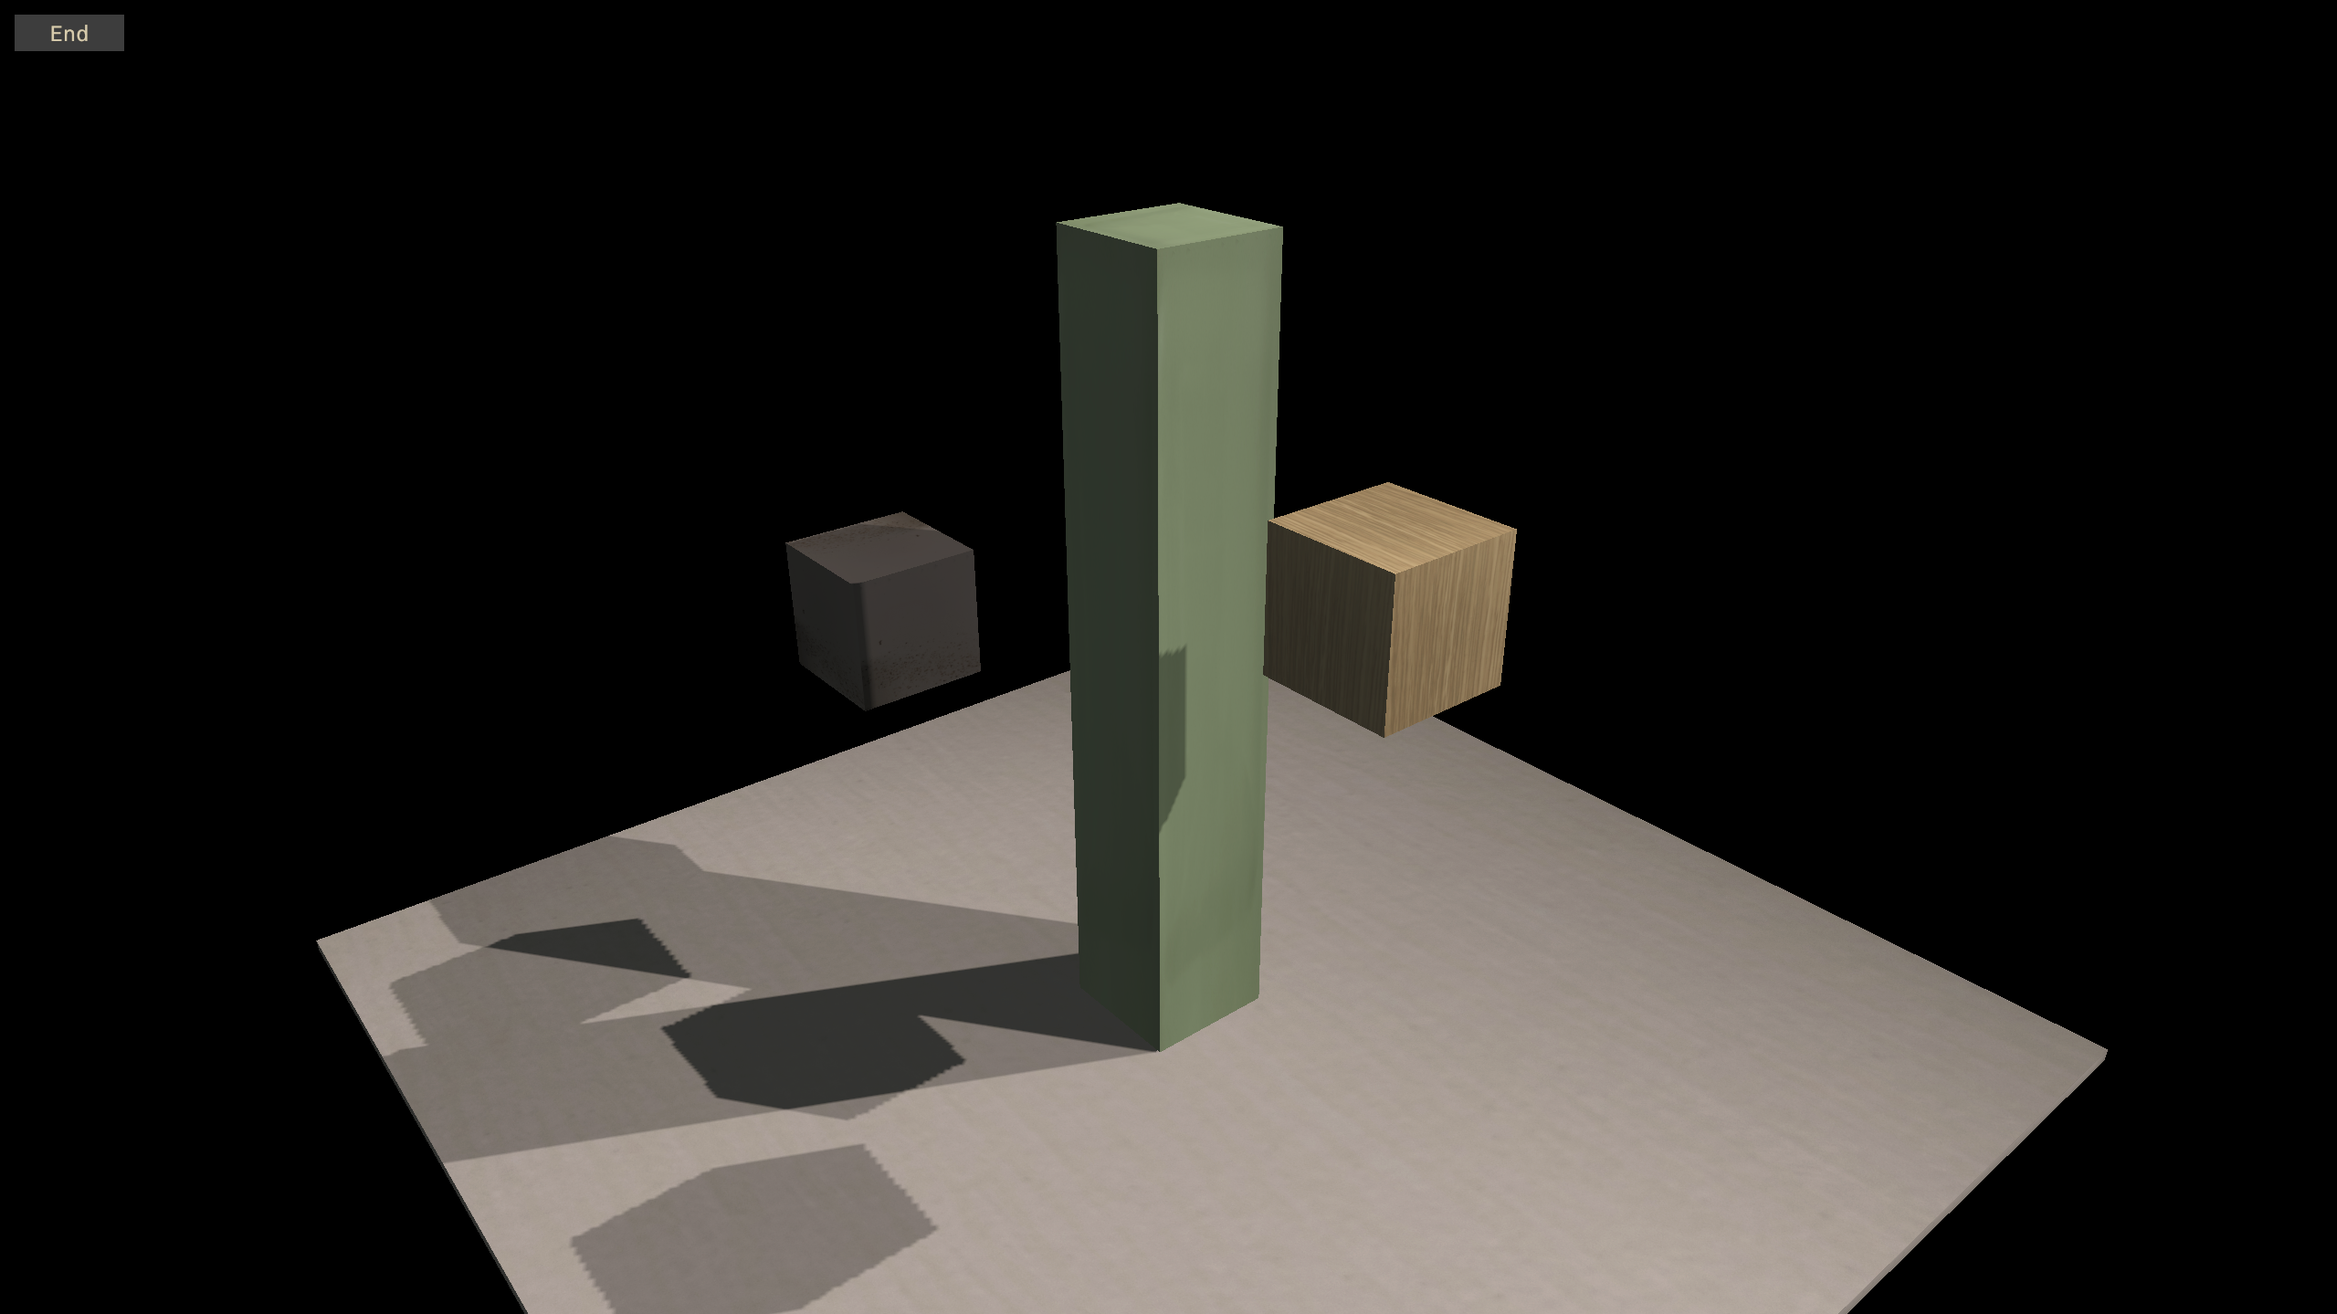
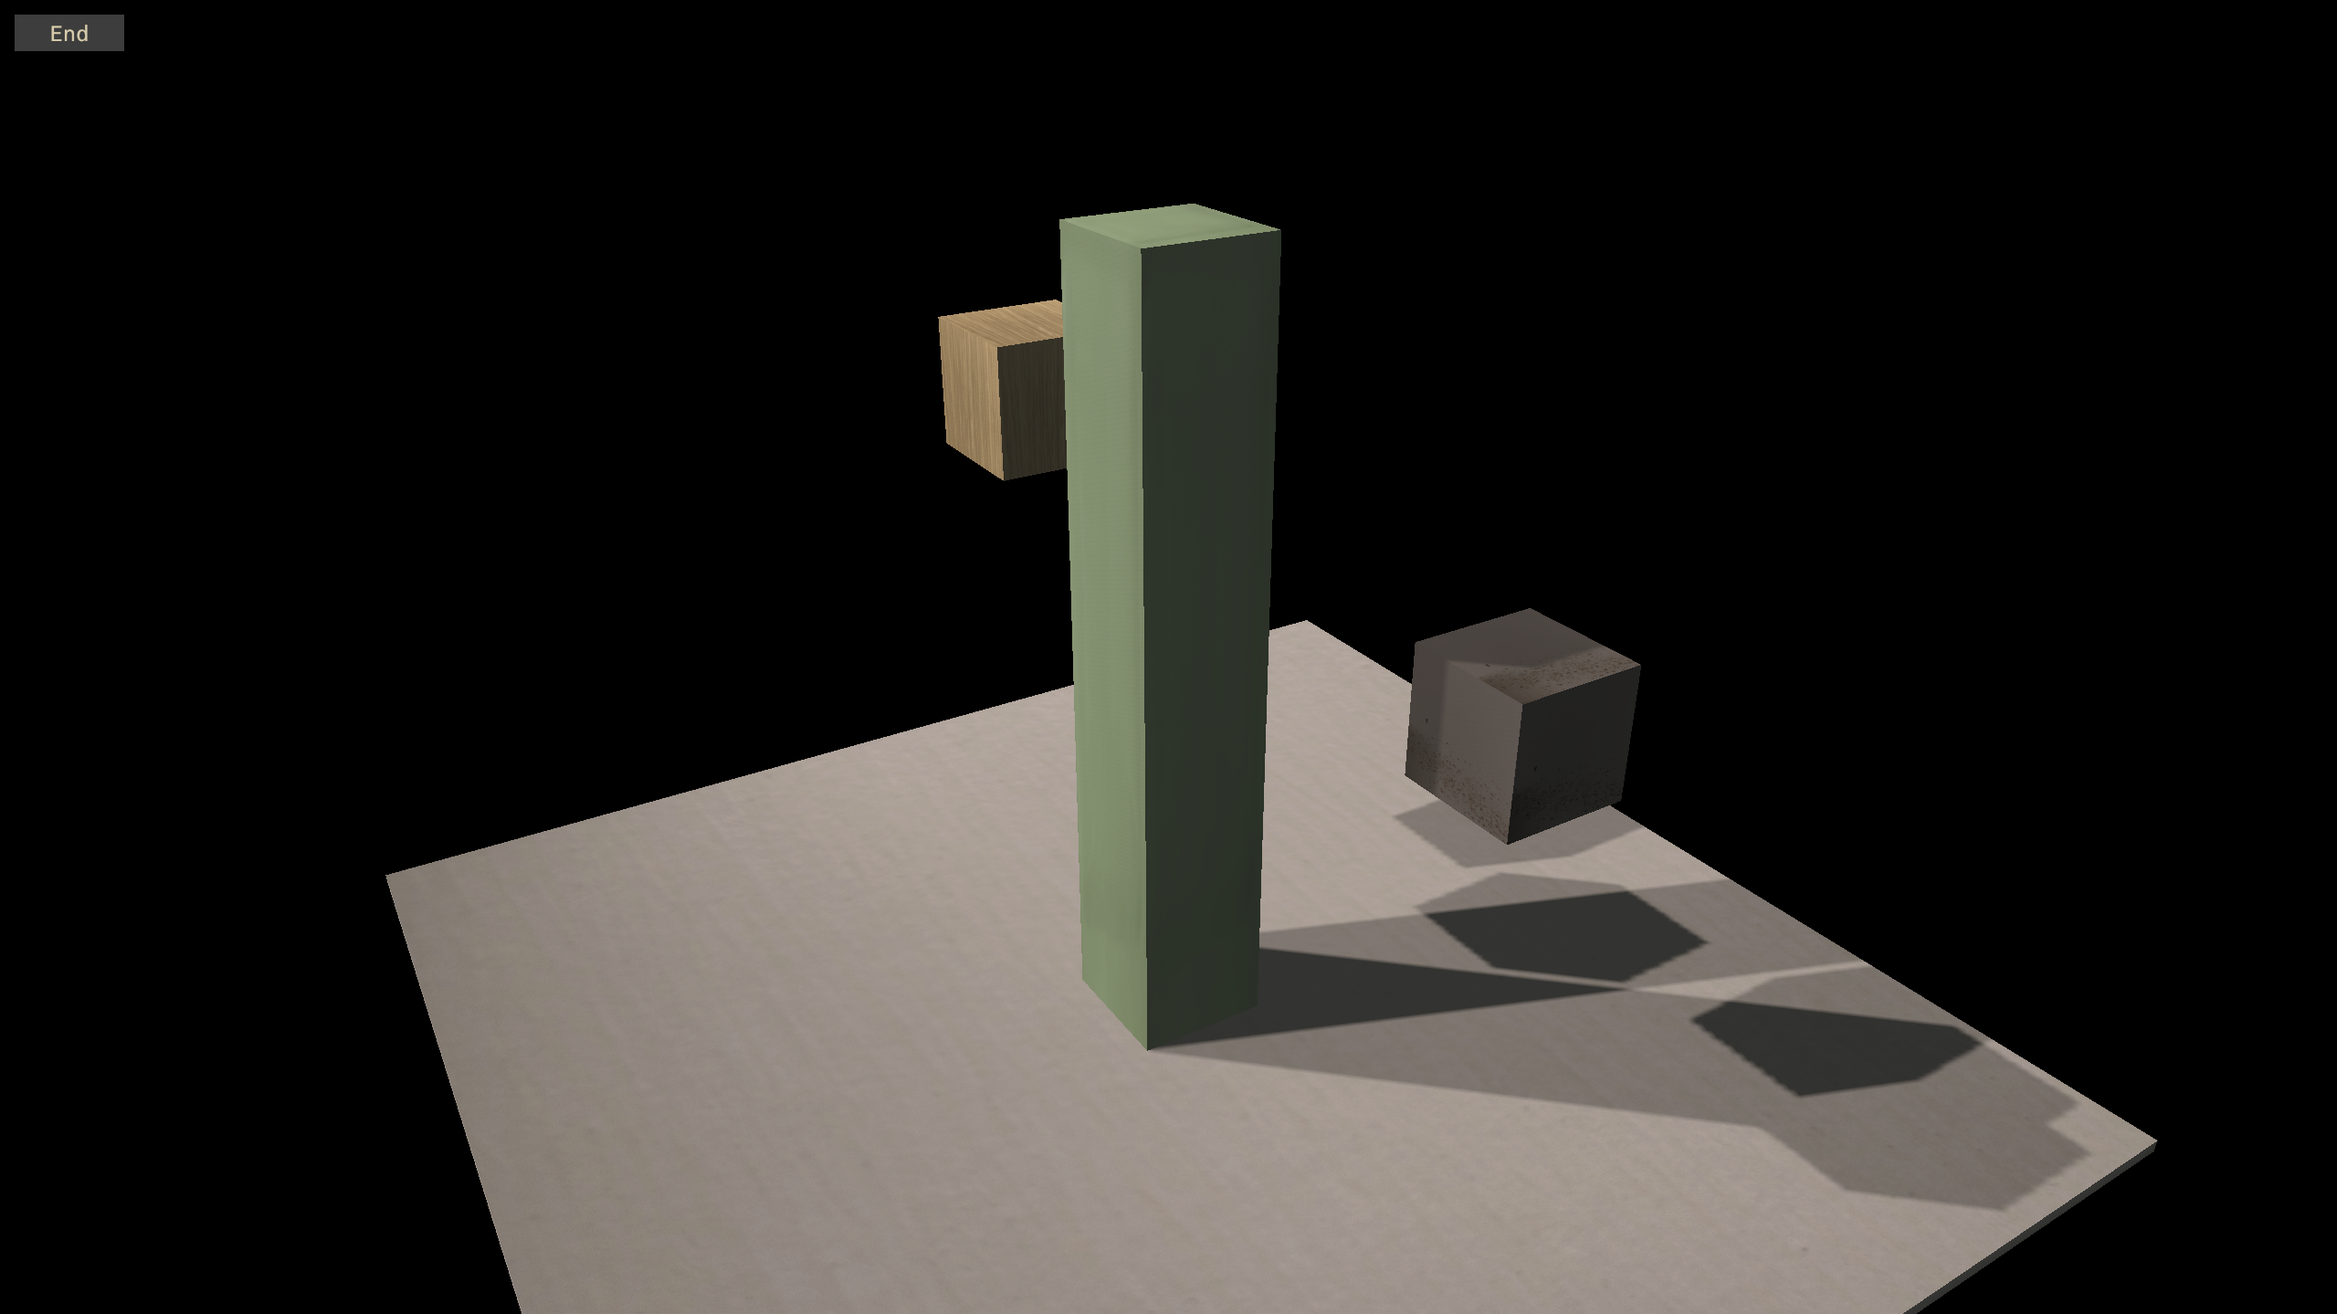
[working] 3x3 PCF 도입 및 그림자 여드름 해소
[1] 3x3 PCF
-MIN_MAX_LINEAR_MIP_POINT 비교 샘플러가 수행하는 2x2 PCF로는 현재 조형과 카메라 구성에서 그림자의 계단 현상을 막지 못하여 3x3 PCF를 구현함.
- 기존 비교 샘플러를 주변 4개 텍스처 좌표에서 샘플링하도록 하여 중앙이 가중된 PCF로 간단히 구현하였음.
- 계단 현상은 확실히 이전에 비해 완화되었으나, 여전히 나타남.

[2] 그림자 여드름
- 중앙의 초록 기둥에 여러 검은 세로줄이 나타난 것을 해결하였음.
- 이미 지난 커밋에서 깊이 보정값을 설정하였기에 그림자 여드름이라곤 처음에 생각을 못했고, 일단 모이레 패턴인줄 알고 텍스처의 해상도를 낮추거나 다른 텍스처로 교체해봤으나 해결하지 못하였음.
- 그러나 RasterizerState의 DepthBias를 10배로 해보니 해결된 것으로 보아 그림자 여드름이었음.
- 다만 기존 값의 10배는 그림자에서 피터팬이 조금 나타나는 것 같아서 기존 값의 3배로 조정하였음.

Changed region(s): [[0.1235, 0.1529, 0.9261, 1.0], [0.3396, 0.9173, 0.4939, 1.0]]

diff --git a/Code/C++/Source/PodoReset.cpp b/Code/C++/Source/PodoReset.cpp
@@ -644,7 +644,7 @@ void Podo::ResetMeshes()
 {
 	m_workloadMeshes.clear();
 
-	std::vector<Vertex> boxVertices =
+	std::vector<Vertex> cubeVertices =
 	{
 		// -Z
 		{{-0.5f, -0.5f, -0.5f}, { 0.0f,  0.0f, -1.0f}, {0.0f, 1.0f}},
@@ -683,7 +683,7 @@ void Podo::ResetMeshes()
 		{{+0.5f, -0.5f, +0.5f}, { 0.0f, -1.0f,  0.0f}, {1.0f, 1.0f}}
 	};
 
-	std::vector<uint32_t> boxIndices =
+	std::vector<uint32_t> cubeIndices =
 	{
 		0,	1,	2,		0,	2,	3,	// -Z
 		4,	6,	5,		4,	7,  6,	// +Z
@@ -699,11 +699,11 @@ void Podo::ResetMeshes()
 	resourceUpload.Begin();
 	{
 		{
-			Mesh boxMesh;
-			boxMesh.Create(m_device.Get(), resourceUpload, std::move(boxVertices), std::move(boxIndices));
+			Mesh cubeMesh;
+			cubeMesh.Create(m_device.Get(), resourceUpload, std::move(cubeVertices), std::move(cubeIndices));
 
 			//NOTE: 실제 자원의 업로드 및 복사는 일어나지 않았지만, boxMesh의 초기화는 곧바로 일어나므로 바로 이렇게 move해도 됨
-			m_workloadMeshes["Cube"] = std::move(boxMesh);
+			m_workloadMeshes["Cube"] = std::move(cubeMesh);
 		}
 	}
 	auto uploadFinished = resourceUpload.End(m_commandQueue.Get());
@@ -1430,7 +1430,7 @@ void Podo::ResetPipelineStateObjects()
 	pipelineStateObjectDesc.VS										= CD3DX12_SHADER_BYTECODE(shadowVertexShader.Get());
 	pipelineStateObjectDesc.PS										= CD3DX12_SHADER_BYTECODE(shadowPixelShader.Get());
 	pipelineStateObjectDesc.RasterizerState							= CD3DX12_RASTERIZER_DESC(D3D12_DEFAULT);
-	pipelineStateObjectDesc.RasterizerState.DepthBias				= 1000;
+	pipelineStateObjectDesc.RasterizerState.DepthBias				= 3000;
 	pipelineStateObjectDesc.RasterizerState.SlopeScaledDepthBias	= 1.0f;
 	pipelineStateObjectDesc.RasterizerState.DepthBiasClamp			= 0.0f;
 	pipelineStateObjectDesc.BlendState								= CD3DX12_BLEND_DESC(D3D12_DEFAULT);

diff --git a/README.md b/README.md
@@ -30,6 +30,11 @@ Win32와 D3D12를 이용하여 구현 중인 렌더링 엔진입니다.
 [준비]
 ![로딩 스크린샷](Docs/screenshot_1.png)
 
+<br>
+
+
+
+
 [실행]
 ![실행 스크린샷](Docs/screenshot_2.png)
 
@@ -183,32 +188,32 @@ Win32와 D3D12를 이용하여 구현 중인 렌더링 엔진입니다.
 
 
 
-### 4.3. 측정 결과
+**### 4.3. 측정 결과**
 [VSync Off]
 |구분 |측정 구간                                                                                  |평균 소요 시간 |
 |-----|-------------------------------------------------------------------------------------------|--------------:|
-|CPU  |1. 프레임 시간                                                                             |351,893 ns     |
-|     |├─ 2. GPU 명령 완료 대기                                                                   |81,821 ns      |
-|     |├─ 3. 논-렌더 로직                                                                         |4,129 ns       |
-|     |└─ 4. 렌더 로직                                                                            |265,713 ns     |
-|     |&nbsp;&nbsp;&nbsp;&nbsp;&nbsp;&nbsp;├─ 5. 커맨드 리스트 초기화                             |8,963 ns       |
-|     |&nbsp;&nbsp;&nbsp;&nbsp;&nbsp;&nbsp;├─ 6. 그리기 준비                                      |3,356 ns       |
-|     |&nbsp;&nbsp;&nbsp;&nbsp;&nbsp;&nbsp;├─ 7. 씬 그리기                                        |16,669 ns      |
-|     |&nbsp;&nbsp;&nbsp;&nbsp;&nbsp;&nbsp;│&nbsp;&nbsp;&nbsp;&nbsp;&nbsp;&nbsp;├─ 8. 쉐도우 패스 |11,148 ns      |
-|     |&nbsp;&nbsp;&nbsp;&nbsp;&nbsp;&nbsp;│&nbsp;&nbsp;&nbsp;&nbsp;&nbsp;&nbsp;└─ 9. 메인 패스   |5,262 ns       |
-|     |&nbsp;&nbsp;&nbsp;&nbsp;&nbsp;&nbsp;├─ 10. GUI 그리기                                      |10,728 ns      |
-|     |&nbsp;&nbsp;&nbsp;&nbsp;&nbsp;&nbsp;├─ 11. 제시 준비                                       |1,056 ns       |
-|     |&nbsp;&nbsp;&nbsp;&nbsp;&nbsp;&nbsp;├─ 12. 커맨드 리스트 제출                              |63,368 ns      |
-|     |&nbsp;&nbsp;&nbsp;&nbsp;&nbsp;&nbsp;└─ 13. 제시                                            |160,883 ns     |
-|GPU  |1. 프레임 시간                                                                             |9,041 ns       |
-|     |├─ 2. 그리기 준비                                                                          |48 ns          |
-|     |├─ 3. 씬 그리기                                                                            |8,973 ns       |
-|     |│&nbsp;&nbsp;&nbsp;&nbsp;&nbsp;&nbsp;├─ 4. 쉐도우 패스                                     |1,445 ns       |
-|     |│&nbsp;&nbsp;&nbsp;&nbsp;&nbsp;&nbsp;└─ 5. 메인 패스                                       |7,527          |
-|     |├─ 6. GUI 그리기                                                                           |13 ns          |
-|     |└─ 7. 제시 준비                                                                            |1 ns           |
+|CPU  |1. 프레임 시간                                                                             |354,072 ns     |
+|     |├─ 2. GPU 명령 완료 대기                                                                   |84,611 ns      |
+|     |├─ 3. 논-렌더 로직                                                                         |4,838 ns       |
+|     |└─ 4. 렌더 로직                                                                            |264,398 ns     |
+|     |&nbsp;&nbsp;&nbsp;&nbsp;&nbsp;&nbsp;├─ 5. 커맨드 리스트 초기화                             |9,215 ns       |
+|     |&nbsp;&nbsp;&nbsp;&nbsp;&nbsp;&nbsp;├─ 6. 그리기 준비                                      |3,382 ns       |
+|     |&nbsp;&nbsp;&nbsp;&nbsp;&nbsp;&nbsp;├─ 7. 씬 그리기                                        |16,559 ns      |
+|     |&nbsp;&nbsp;&nbsp;&nbsp;&nbsp;&nbsp;│&nbsp;&nbsp;&nbsp;&nbsp;├─ 8. 쉐도우 패스             |11,112 ns      |
+|     |&nbsp;&nbsp;&nbsp;&nbsp;&nbsp;&nbsp;│&nbsp;&nbsp;&nbsp;&nbsp;└─ 9. 메인 패스               |5,197 ns       |
+|     |&nbsp;&nbsp;&nbsp;&nbsp;&nbsp;&nbsp;├─ 10. GUI 그리기                                      |10,572 ns      |
+|     |&nbsp;&nbsp;&nbsp;&nbsp;&nbsp;&nbsp;├─ 11. 제시 준비                                       |1,017 ns       |
+|     |&nbsp;&nbsp;&nbsp;&nbsp;&nbsp;&nbsp;├─ 12. 커맨드 리스트 제출                              |59,979 ns      |
+|     |&nbsp;&nbsp;&nbsp;&nbsp;&nbsp;&nbsp;└─ 13. 제시                                            |163,020 ns     |
+|GPU  |1. 프레임 시간                                                                             |19,531 ns      |
+|     |├─ 2. 그리기 준비                                                                          |99 ns          |
+|     |├─ 3. 씬 그리기                                                                            |19,393 ns      |
+|     |│&nbsp;&nbsp;&nbsp;&nbsp;├─ 4. 쉐도우 패스                                                 |2,886 ns       |
+|     |│&nbsp;&nbsp;&nbsp;&nbsp;└─ 5. 메인 패스                                                   |16,504         |
+|     |├─ 6. GUI 그리기                                                                           |24 ns          |
+|     |└─ 7. 제시 준비                                                                            |3 ns           |
 
-- 총 캡처 시간: 16,154.21 ms
+- 총 캡처 시간: 16,155.11 ms
 
 - GPU 명령이 모두 소진될 때까지 CPU를 대기시키는 현 로직으로 인해, '2. GPU 명령 완료 대기' 과정에서 CPU 프레임 시간의 약 20%가 대기 상태로 낭비되고 있습니다.
 
@@ -218,33 +223,36 @@ Win32와 D3D12를 이용하여 구현 중인 렌더링 엔진입니다.
 
 <br>
 
+
+
+
 [VSync On]  
 |구분 |측정 구간                                                                                  |평균 소요 시간 |
 |-----|-------------------------------------------------------------------------------------------|--------------:|
-|CPU  |1. 프레임 시간                                                                             |4,147,341 ns   |
-|     |├─ 2. GPU 명령 완료 대기                                                                   |3,614,869 ns   |
-|     |├─ 3. 논-렌더 로직                                                                         |11,727 ns      |
-|     |└─ 4. 렌더 로직                                                                            |519,967 ns     |
-|     |&nbsp;&nbsp;&nbsp;&nbsp;&nbsp;&nbsp;├─ 5. 커맨드 리스트 초기화                             |24,281 ns      |
-|     |&nbsp;&nbsp;&nbsp;&nbsp;&nbsp;&nbsp;├─ 6. 그리기 준비                                      |8,781 ns       |
-|     |&nbsp;&nbsp;&nbsp;&nbsp;&nbsp;&nbsp;├─ 7. 씬 그리기                                        |41,088 ns      |
-|     |&nbsp;&nbsp;&nbsp;&nbsp;&nbsp;&nbsp;│&nbsp;&nbsp;&nbsp;&nbsp;&nbsp;&nbsp;├─ 8. 쉐도우 패스 |28,395 ns      |
-|     |&nbsp;&nbsp;&nbsp;&nbsp;&nbsp;&nbsp;│&nbsp;&nbsp;&nbsp;&nbsp;&nbsp;&nbsp;└─ 9. 메인 패스   |12,131 ns      |
-|     |&nbsp;&nbsp;&nbsp;&nbsp;&nbsp;&nbsp;├─ 10. GUI 그리기                                      |25,946 ns      |
-|     |&nbsp;&nbsp;&nbsp;&nbsp;&nbsp;&nbsp;├─ 11. 제시 준비                                       |2,449 ns       |
-|     |&nbsp;&nbsp;&nbsp;&nbsp;&nbsp;&nbsp;├─ 12. 커맨드 리스트 제출                              |133,167 ns     |
-|     |&nbsp;&nbsp;&nbsp;&nbsp;&nbsp;&nbsp;└─ 13. 제시                                            |283,050 ns     |
-|GPU  |1. 프레임 시간                                                                             |634,150 ns     |
-|     |├─ 2. 그리기 준비                                                                          |3,878 ns       |
-|     |├─ 3. 씬 그리기                                                                            |629,338 ns     |
-|     |│&nbsp;&nbsp;&nbsp;&nbsp;&nbsp;&nbsp;├─ 4. 쉐도우 패스                                     |99,218 ns      |
-|     |│&nbsp;&nbsp;&nbsp;&nbsp;&nbsp;&nbsp;└─ 5. 메인 패스                                       |530,116 ns     |
-|     |├─ 6. GUI 그리기                                                                           |839 ns         |
-|     |└─ 7. 제시 준비                                                                            |22 ns          |
+|CPU  |1. 프레임 시간                                                                             |4,147,657 ns   |
+|     |├─ 2. GPU 명령 완료 대기                                                                   |3,465,864 ns   |
+|     |├─ 3. 논-렌더 로직                                                                         |31,962 ns      |
+|     |└─ 4. 렌더 로직                                                                            |647,765 ns     |
+|     |&nbsp;&nbsp;&nbsp;&nbsp;&nbsp;&nbsp;├─ 5. 커맨드 리스트 초기화                             |32,353 ns      |
+|     |&nbsp;&nbsp;&nbsp;&nbsp;&nbsp;&nbsp;├─ 6. 그리기 준비                                      |9,856 ns       |
+|     |&nbsp;&nbsp;&nbsp;&nbsp;&nbsp;&nbsp;├─ 7. 씬 그리기                                        |48,345 ns      |
+|     |&nbsp;&nbsp;&nbsp;&nbsp;&nbsp;&nbsp;│&nbsp;&nbsp;&nbsp;&nbsp;├─ 8. 쉐도우 패스             |32,976 ns      |
+|     |&nbsp;&nbsp;&nbsp;&nbsp;&nbsp;&nbsp;│&nbsp;&nbsp;&nbsp;&nbsp;└─ 9. 메인 패스               |14,738 ns      |
+|     |&nbsp;&nbsp;&nbsp;&nbsp;&nbsp;&nbsp;├─ 10. GUI 그리기                                      |31,252 ns      |
+|     |&nbsp;&nbsp;&nbsp;&nbsp;&nbsp;&nbsp;├─ 11. 제시 준비                                       |3,006 ns       |
+|     |&nbsp;&nbsp;&nbsp;&nbsp;&nbsp;&nbsp;├─ 12. 커맨드 리스트 제출                              |153,398 ns     |
+|     |&nbsp;&nbsp;&nbsp;&nbsp;&nbsp;&nbsp;└─ 13. 제시                                            |367,504 ns     |
+|GPU  |1. 프레임 시간                                                                             |1,140,896 ns   |
+|     |├─ 2. 그리기 준비                                                                          |4,411 ns       |
+|     |├─ 3. 씬 그리기                                                                            |1,135,290 ns   |
+|     |│&nbsp;&nbsp;&nbsp;&nbsp;├─ 4. 쉐도우 패스                                                 |103,322 ns     |
+|     |│&nbsp;&nbsp;&nbsp;&nbsp;└─ 5. 메인 패스                                                   |1,031,962 ns   |
+|     |├─ 6. GUI 그리기                                                                           |1,098 ns       |
+|     |└─ 7. 제시 준비                                                                            |17 ns          |
 
-- 총 캡처 시간: 16,363.34 ms
+- 총 캡처 시간: 15,508.27 ms
 
-- VSync를 켰으므로 명령 큐에 제출된 Present 명령은 VSyncBlank 타이밍에 처리되고, 이 시점까지 `FlushCommandQueue()`가 CPU의 다음 프레임 렌더 시작을 블록하므로, CPU의 '2. GPU 명령 완료 대기' 시간이 늘어납니다.
+- VSync를 켰으므로 명령 큐에 제출된 Present 명령은 VSyncBlank 타이밍에 처리되고, 이 시점까지 \`FlushCommandQueue()\`가 CPU의 다음 프레임 렌더 시작을 블록하므로, CPU의 '2. GPU 명령 완료 대기' 시간이 늘어납니다.
 
 - 측정 환경의 모니터 주사율은 240Hz이므로 주기는 $\frac{1}{240\ \mathrm{Hz}} \approx 4.17\ \mathrm{ms}$이고 이는 CPU의 프레임 시간 측정값과 거의 맞아떨어집니다.
 
@@ -259,8 +267,6 @@ Win32와 D3D12를 이용하여 구현 중인 렌더링 엔진입니다.
 ## 5. 구현 제외
 - **디바이스 소실 감지**  
   디바이스 소실을 감지하는 로직은 구현을 단순화하기 위해 작성하지 않았습니다.
-
-<br>
 
 - **윈도우 DPI 설정값 자동 반영**  
   본 엔진은 DPI 설정값에 의한 윈도우의 자동 스케일링으로 화면이 훼손되지 않도록 DPI AWARENESS를 매니페스트에 명시하였습니다. 윈도우의 DPI 설정값은 GUI 크기에 반영하지 않고, 대신 옵션에서 GUI의 배율을 50%, 75%, 100%, 125%, 150% 중에서 선택할 수 있도록 간단히 구현하였습니다.
